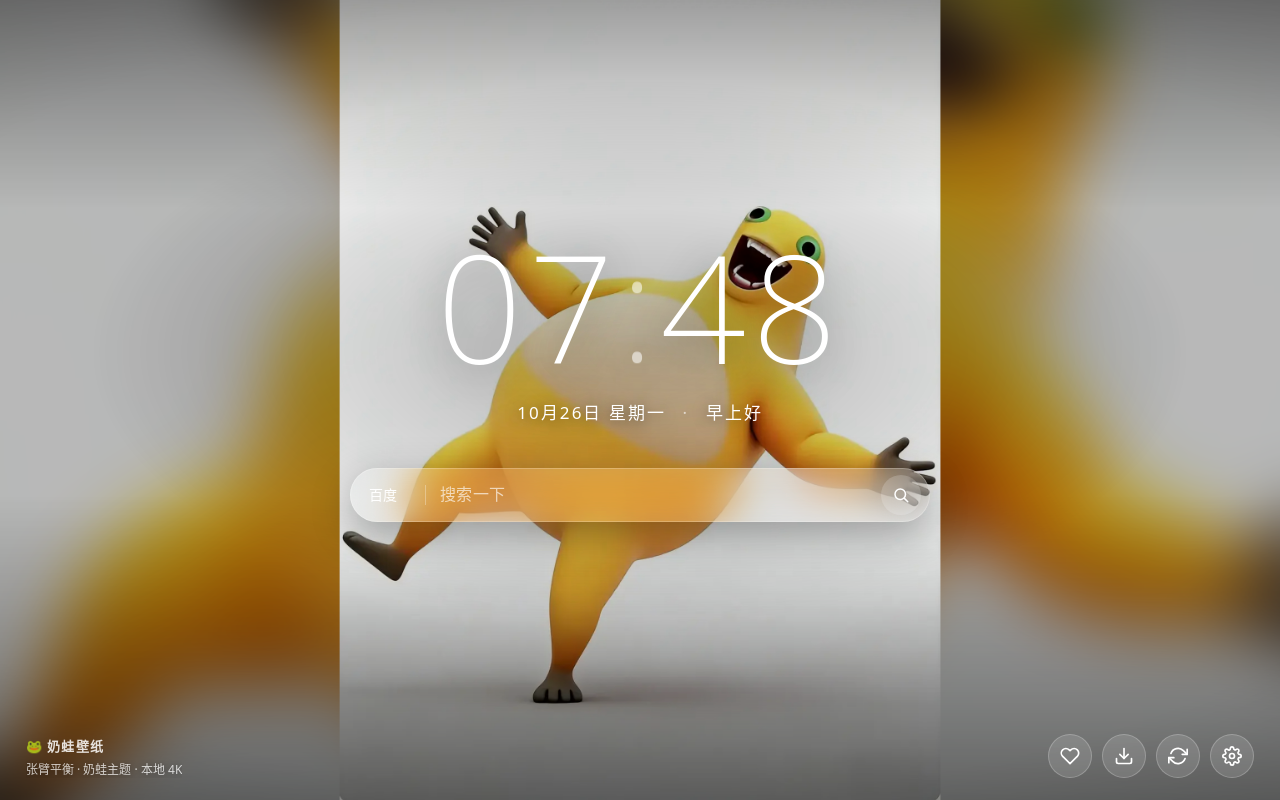
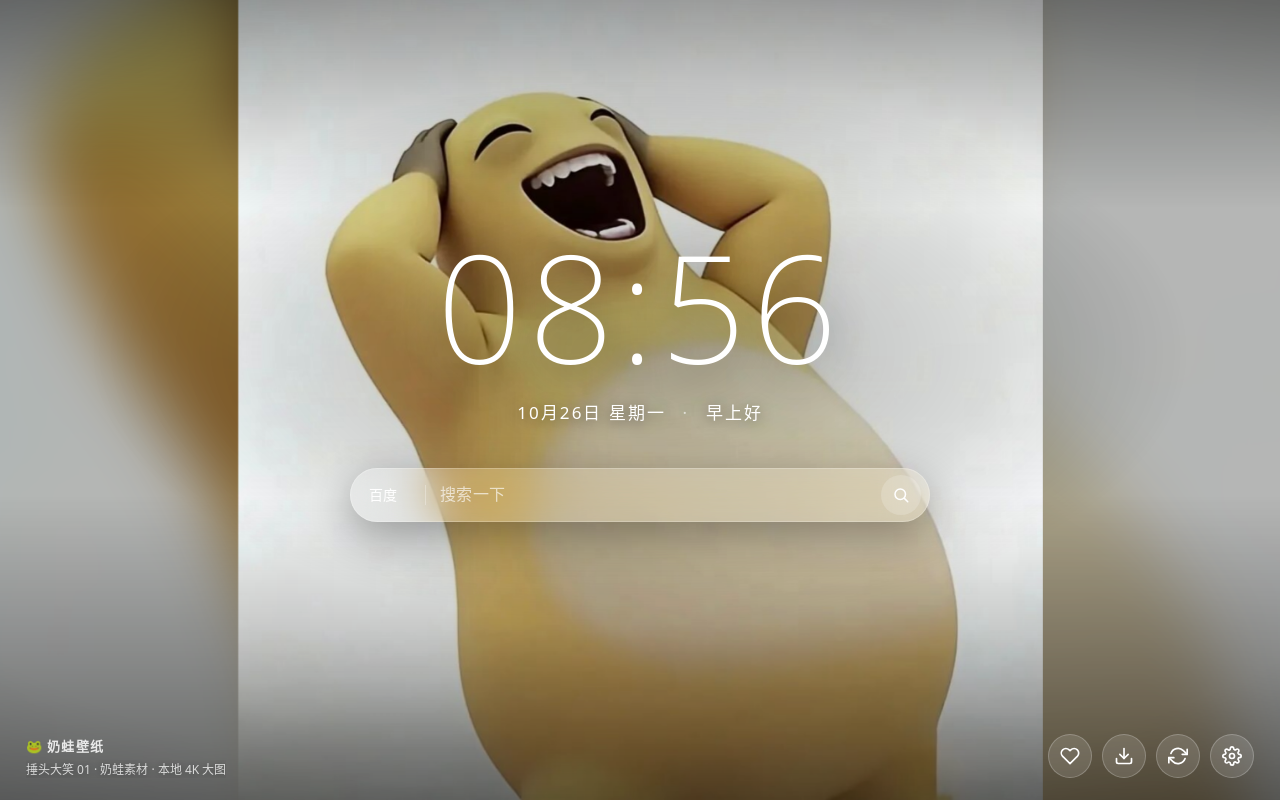
feat: 内置 27 张 4K/高清素材，新增奶蛙分类筛选（v1.6.0）

diff --git a/js/newtab.js b/js/newtab.js
@@ -2,7 +2,7 @@
 
 const $ = s => document.querySelector(s);
 
-const DEFAULT_SETTINGS = { source: 'naiwa', customUrl: '', autoSwitch: 0, engine: 'baidu' };
+const DEFAULT_SETTINGS = { source: 'naiwa', naiwaCat: 'all', customUrl: '', autoSwitch: 0, engine: 'baidu' };
 const ENGINES = {
   baidu: 'https://www.baidu.com/s?wd=',
   bing: 'https://www.bing.com/search?q=',
@@ -26,6 +26,8 @@ async function init() {
 
   renderClock();
   setInterval(renderClock, 1000);
+  const verEl = document.getElementById('ver');
+  try { if (verEl && chrome.runtime && chrome.runtime.getManifest) verEl.textContent = chrome.runtime.getManifest().version; } catch (e) {}
   bindEvents();
   renderSettingsUI();
   renderFavGrid();
@@ -165,19 +167,24 @@ async function refreshInner(force = false) {
       return reapply();
     }
     const urlOf = it => absUrl(it.file);
-    const pool = naiwaCache.filter(it => !current || current.url !== urlOf(it));
-    const chosen = pool[Math.floor(Math.random() * pool.length)] || naiwaCache[0];
+    const cat = settings.naiwaCat || 'all';
+    let catPool = cat === 'all' ? naiwaCache : naiwaCache.filter(it => it.category === cat);
+    if (!catPool.length) catPool = naiwaCache;
+    const pool = catPool.filter(it => !current || current.url !== urlOf(it));
+    const chosen = pool[Math.floor(Math.random() * pool.length)] || catPool[0];
+    const catLabel = chosen.category === '4k' ? '4K 大图' : (chosen.category === 'hd' ? '高清壁纸' : '全部素材');
     current = {
       source: 'naiwa',
       url: urlOf(chosen),
       thumb: absUrl(chosen.thumb),
       title: chosen.title,
-      copyright: '奶蛙主题 · 本地 4K',
+      copyright: '奶蛙素材 · 本地 ' + catLabel,
+      category: chosen.category,
       updatedAt: Date.now()
     };
     saveAndApply();
     // 预热另一张，换一张时即刻显示
-    const other = naiwaCache.find(it => urlOf(it) !== current.url);
+    const other = catPool.find(it => urlOf(it) !== current.url);
     if (other) { const img = new Image(); img.src = urlOf(other); }
     return;
   }
@@ -364,20 +371,22 @@ function closePanel() { $('#panel').classList.remove('open'); }
 function renderSettingsUI() {
   document.querySelectorAll('input[name="source"]').forEach(r => { r.checked = r.value === settings.source; });
   $('#custom-url').value = settings.customUrl;
-  updateCustomExtra();
+  $('#naiwa-cat').value = settings.naiwaCat || 'all';
+  updateSourceExtra();
   $('#auto-switch').value = String(settings.autoSwitch);
   $('#engine').value = settings.engine;
 }
 
-function updateCustomExtra() {
+function updateSourceExtra() {
   $('#custom-extra').classList.toggle('open', settings.source === 'custom');
+  $('#naiwa-extra').classList.toggle('open', settings.source === 'naiwa');
 }
 
 function bindSettingsEvents() {
   document.querySelectorAll('input[name="source"]').forEach(r => {
     r.addEventListener('change', async () => {
       settings.source = r.value;
-      updateCustomExtra();
+      updateSourceExtra();
       await saveSettings();
       refresh(true);
     });
@@ -387,6 +396,13 @@ function bindSettingsEvents() {
     settings.customUrl = $('#custom-url').value.trim();
     await saveSettings();
     if (settings.source === 'custom') refresh(true);
+  });
+
+  $('#naiwa-cat').addEventListener('change', async () => {
+    settings.naiwaCat = $('#naiwa-cat').value;
+    await saveSettings();
+    await refresh(true);
+    toast(settings.naiwaCat === 'all' ? '已切换为全部奶蛙素材' : '已切换奶蛙素材分类');
   });
 
   $('#auto-switch').addEventListener('change', async () => {
@@ -404,7 +420,7 @@ function bindSettingsEvents() {
       current = { source: 'local', url: reader.result, title: '本地图片', copyright: file.name, updatedAt: Date.now() };
       settings.source = 'local';
       document.querySelectorAll('input[name="source"]').forEach(r => { r.checked = false; });
-      updateCustomExtra();
+      updateSourceExtra();
       await saveSettings();
       saveAndApply();
       toast('已应用本地图片');

diff --git a/newtab.html b/newtab.html
@@ -66,13 +66,20 @@
       <section>
         <h3>壁纸来源</h3>
         <div class="source-list" id="source-list">
-<label class="source"><input type="radio" name="source" value="naiwa"><span class="src-name">奶蛙主题</span><span class="src-desc">本地内置 4K 奶蛙大图，打开即显</span></label>
+<label class="source"><input type="radio" name="source" value="naiwa"><span class="src-name">奶蛙主题</span><span class="src-desc">本地内置 27 张 4K / 高清奶蛙壁纸，打开即显</span></label>
           <label class="source"><input type="radio" name="source" value="bing"><span class="src-name">Bing 每日精选</span><span class="src-desc">每天更新的高清摄影大片</span></label>
           <label class="source"><input type="radio" name="source" value="random"><span class="src-name">随机美图</span><span class="src-desc">每次换一张都有新惊喜</span></label>
           <label class="source"><input type="radio" name="source" value="custom"><span class="src-name">自定义图片链接</span><span class="src-desc">填入一张在线图片地址</span></label>
         </div>
         <div id="custom-extra" class="custom-extra">
           <input id="custom-url" class="text-input" type="url" placeholder="https://example.com/wallpaper.jpg">
+        </div>
+        <div id="naiwa-extra" class="custom-extra">
+          <select id="naiwa-cat" class="select-input">
+            <option value="all">奶蛙全部 27 张（4K + 高清）</option>
+            <option value="4k">4K 大图 · 5 张</option>
+            <option value="hd">高清壁纸 · 22 张</option>
+          </select>
         </div>
         <button id="btn-upload" class="ghost-btn">上传本地图片…</button>
         <input id="file-input" type="file" accept="image/*" hidden>
@@ -99,7 +106,7 @@
 
     <div class="panel-foot">
       快捷键：空格 / 双击空白 换一张 · F 收藏 · D 下载 · S 设置<br>
-      奶蛙壁纸 v1.4.0
+      奶蛙壁纸 v<span id="ver">1.6.0</span>
     </div>
   </aside>
 

diff --git a/README.md b/README.md
@@ -1,19 +1,22 @@
 # 🐸 奶蛙壁纸 · 浏览器新标签页插件
 
 把浏览器新标签页变成每日精选壁纸：大时钟、问候语、聚合搜索，一键收藏和下载壁纸。
-默认主题为本地内置的「奶蛙」4K 大图包，打开即显、离线可用。
+默认主题为本地内置的「奶蛙」27 张 4K / 高清大图包，打开即显、离线可用。
 
 > 本仓库是 **Nailong-Studio** 组织下的官方壁纸扩展。
 > 素材源统一在素材仓库 **[Nailong-Studio/wallpaper](https://github.com/Nailong-Studio/wallpaper)**
-> 的 `4k/` 目录，本插件内置的那 5 张就是从那里取的 4K 原图（中文语义命名 + 同名 `.txt` 叙事）。
+> 的 `4k/`（5 张）与 `hd/`（22 张）目录，插件内置的 27 张就是从这里取的（中文语义命名 + 同名 `.txt` 叙事）。
 > 想换图 / 提新图 → 去素材仓库，不用动这里的代码。
 
 ![奶蛙壁纸 · 新标签页预览](preview/newtab-1280x800.png)
 
+![奶蛙壁纸 · 分类与设置](preview/settings-1.6.0.png)
+
 ## 功能
 
 - **壁纸来源**（设置面板里切换）
-  - 奶蛙主题（默认）：本地内置 4K 奶蛙大图包，打开新标签页即刻显示、随机换图，不依赖网络
+  - 奶蛙主题（默认）：本地内置 27 张 4K / 高清奶蛙壁纸，打开新标签页即刻显示、随机换图，不依赖网络
+  - 奶蛙分类：全部 27 张 / 4K 大图 5 张 / 高清壁纸 22 张，可在设置面板切换
   - Bing 每日精选：自动获取最近 8 天 Bing 高清壁纸，每天自动换新
   - 随机美图：从 Picsum 图库随机换一张，带摄影师署名
   - 自定义图片链接 / 上传本地图片
@@ -29,7 +32,7 @@
 
 ## 安装（Chrome / Edge，无需打包，开发者模式加载）
 
-1. 下载本仓库（Code → Download ZIP）或 `git clone`，解压后得到 `naiwa-wallpaper` 目录；也可直接下载 [Releases](https://github.com/Nailong-Studio/naiwa-wallpaper/releases) 中的 `naiwa-wallpaper-v1.5.0.zip`
+1. 下载本仓库（Code → Download ZIP）或 `git clone`，解压后得到 `naiwa-wallpaper` 目录；也可直接下载 [Releases](https://github.com/Nailong-Studio/naiwa-wallpaper/releases) 中的 `naiwa-wallpaper-v1.6.0.zip`
 2. 打开浏览器，地址栏输入 `chrome://extensions`（Edge 是 `edge://extensions`）
 3. 打开右上角（Edge 是左侧栏）的 **「开发者模式」** 开关
 4. 点击 **「加载已解压的扩展程序」**，选择解压后的 `naiwa-wallpaper` 文件夹（仓库根目录即扩展本体）
@@ -49,25 +52,24 @@
 │   ├── storage.js       # 存储适配层（chrome.storage / localStorage）
 │   ├── sources.js       # 壁纸数据源（奶蛙内置包 / Bing / Picsum / 离线渐变）
 │   └── newtab.js        # 主逻辑（调度、收藏、设置、交互）
-├── wallpapers/          # 奶蛙 4K 大图包 + thumbs/ 缩略图 + list.json
+├── wallpapers/          # 奶蛙 27 张 4K/高清图 + thumbs/ 缩略图 + list.json
 └── icons/               # 插件图标 16/48/128
 ```
 
-`wallpapers/` 里的文件名与素材仓库 `4k/` 一一对应，例如：
+`wallpapers/` 里的文件名与素材仓库一一对应：4K 5 张来自 `4k/`，高清 22 张来自 `hd/`。
 
-| 扩展内文件 | 素材仓库 | 标题 |
+| 分类 | 内置数量 | 素材仓库目录 |
 |---|---|---|
-| `奶蛙-4K-捶头大笑-01.jpg` | `4k/奶蛙-4K-捶头大笑-01.jpg` | 捶头大笑 |
-| `奶蛙-4K-抱头震惊-02.jpg` | `4k/奶蛙-4K-抱头震惊-02.jpg` | 抱头震惊 |
-| `奶蛙-4K-叉腰指点-03.jpg` | `4k/奶蛙-4K-叉腰指点-03.jpg` | 叉腰指点 |
-| `奶蛙-4K-托腮沉思-04.jpg` | `4k/奶蛙-4K-托腮沉思-04.jpg` | 托腮沉思 |
-| `奶蛙-4K-张臂平衡-05.jpg` | `4k/奶蛙-4K-张臂平衡-05.jpg` | 张臂平衡 |
+| 4K 大图 | 5 | `4k/`（`奶蛙-4K-捶头大笑-01.jpg` 等） |
+| 高清壁纸 | 22 | `hd/`（`奶蛙-高清-01.jpg` … `奶蛙-高清-22.jpg`） |
+
+扩展内 `wallpapers/list.json` 记录每张图的 `file` / `thumb` / `title` / `category`，换图只需同步素材仓库对应文件后重新生成清单。
 
 ## 数据与隐私
 
 - 壁纸缓存、收藏、设置全部保存在本地（`chrome.storage.local`），不上传任何数据
 - 网络请求仅访问 Bing 壁纸接口（`cn.bing.com`）与 Picsum 图库（`picsum.photos`）
-- 奶蛙主题的图随扩展打包，本地读取，不发任何请求
+- 27 张奶蛙主题图随扩展打包，本地读取，不发任何请求
 
 ## 相关仓库
 

diff --git a/CHANGELOG.md b/CHANGELOG.md
@@ -1,5 +1,13 @@
 # 变更日志 · 奶蛙壁纸插件
 
+## v1.6.0（2026-10-26）
+
+- **内置素材扩容**：由 5 张 4K 扩至 27 张（4K 5 张 + 高清 22 张），全部来自 `Nailong-Studio/wallpaper`
+- **奶蛙分类筛选**：设置面板可选「全部 27 张 / 4K 大图 5 张 / 高清壁纸 22 张」，换一张只在当前分类内轮换
+- **清单化**：`wallpapers/list.json` 增加 `category` 字段，标题、缩略图、来源与素材仓一一对应
+- **版本显示**：设置面板底部版本号改为读取扩展 manifest，不再硬编码
+- 新增设置面板截图；安装包 `naiwa-wallpaper-v1.6.0.zip`
+
 ## v1.5.0（2026-10-07）
 
 - 初始开源发布：Manifest V3 新标签页扩展
